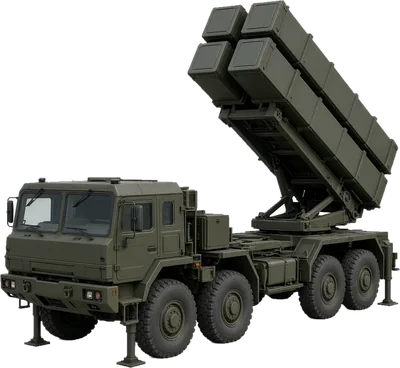
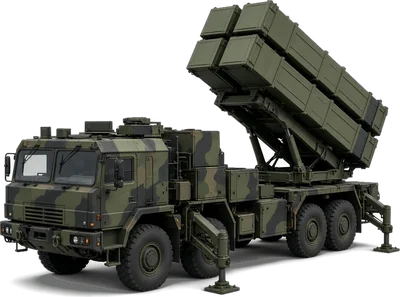
feat(world-ui): صورة سيبر النسخة الثانية (تمويه وأرجل تثبيت) بدل الأولى، ويا ظل أرض ناعم
Refs: I-113

Claude-Session: https://claude.ai/code/session_01HquH2e25niGJVEmXBFk8vT

diff --git a/docs/art/out/README.md b/docs/art/out/README.md
@@ -4,7 +4,8 @@
 
 | رقم | اللقطة | الملف | الحالة |
 |---|---|---|---|
-| 1 سيبر Block-1 | A كتالوج | `01a-siper.jpg` | ✅ باللعبة (`img/sam_siper_v.webp`: لوحة الدفاع الجوي وشارة البطارية) |
+| 1 سيبر Block-1 | A كتالوج | `01a-siper.jpg` | نسخة أولى (انبدلت) |
+| 1 سيبر Block-1 | A كتالوج | `01a-siper-v2.jpg` | ✅ باللعبة (`img/sam_siper_v.webp`): تمويه وأرجل تثبيت هيدروليك أوضح، وظل أرض ناعم |
 | 1 سيبر Block-1 | B من فوق | — | ما انسوت |
 | 2–58 | A ثم B | — | ما انسوت |
 
